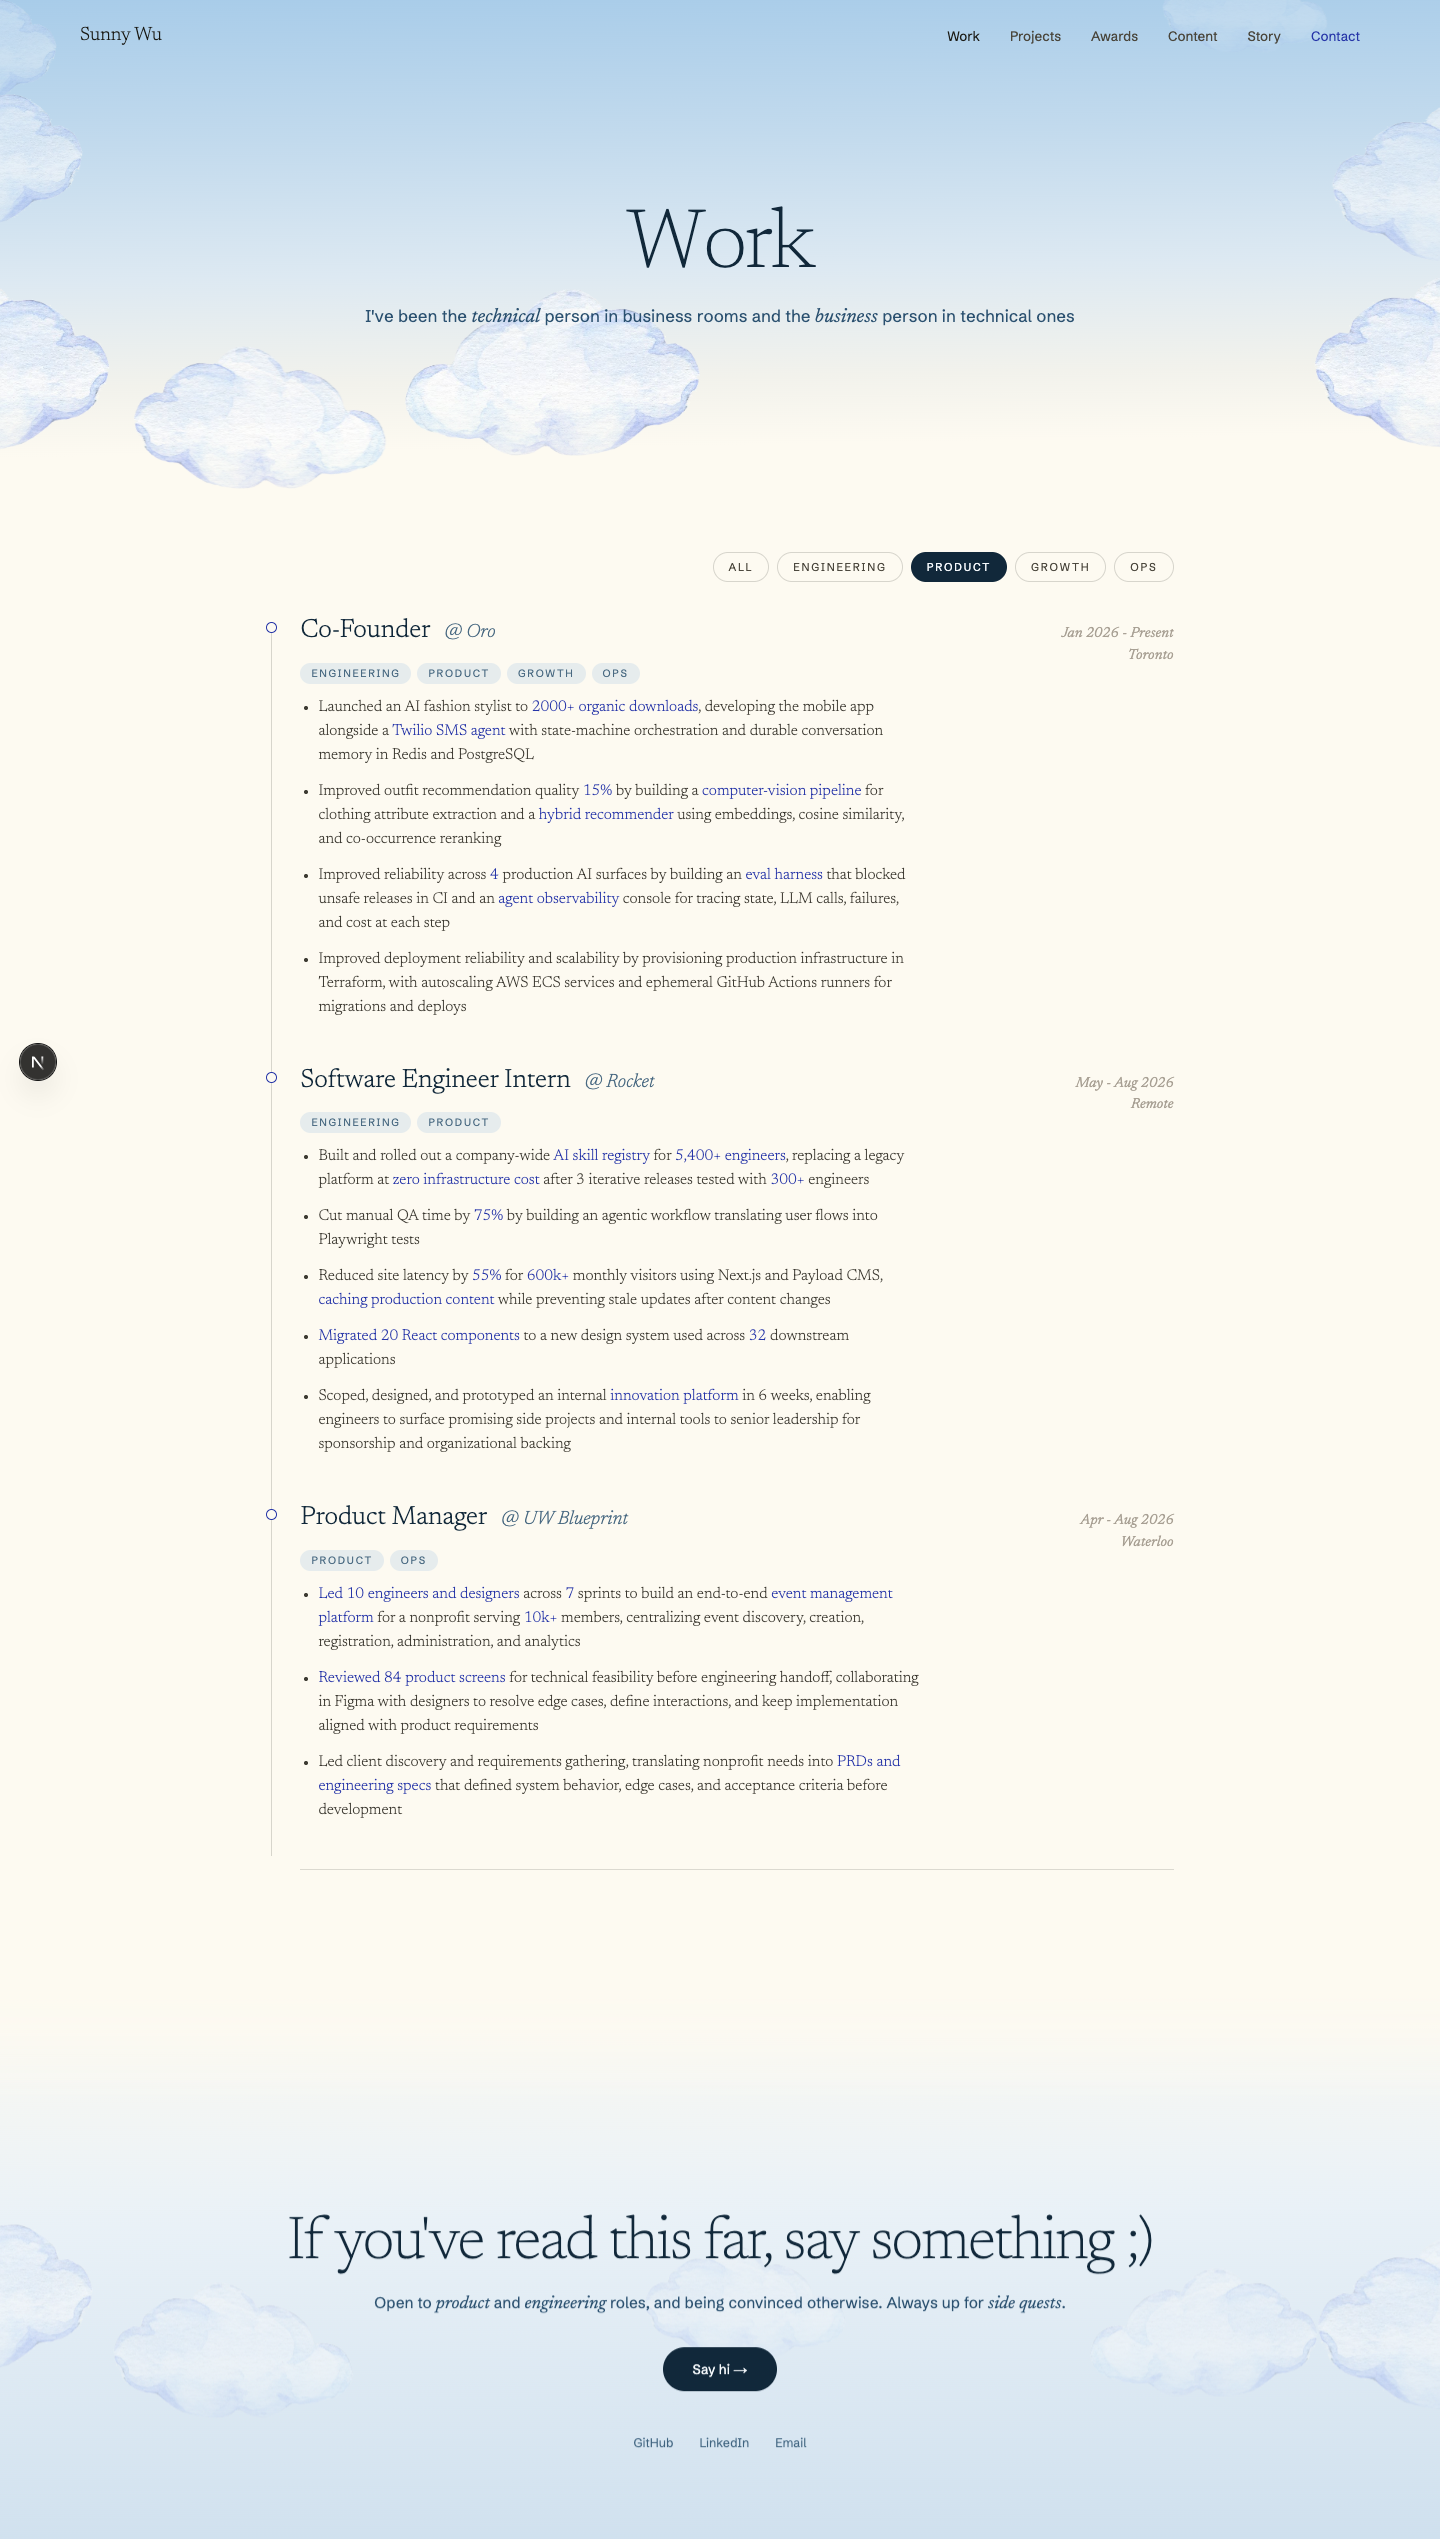
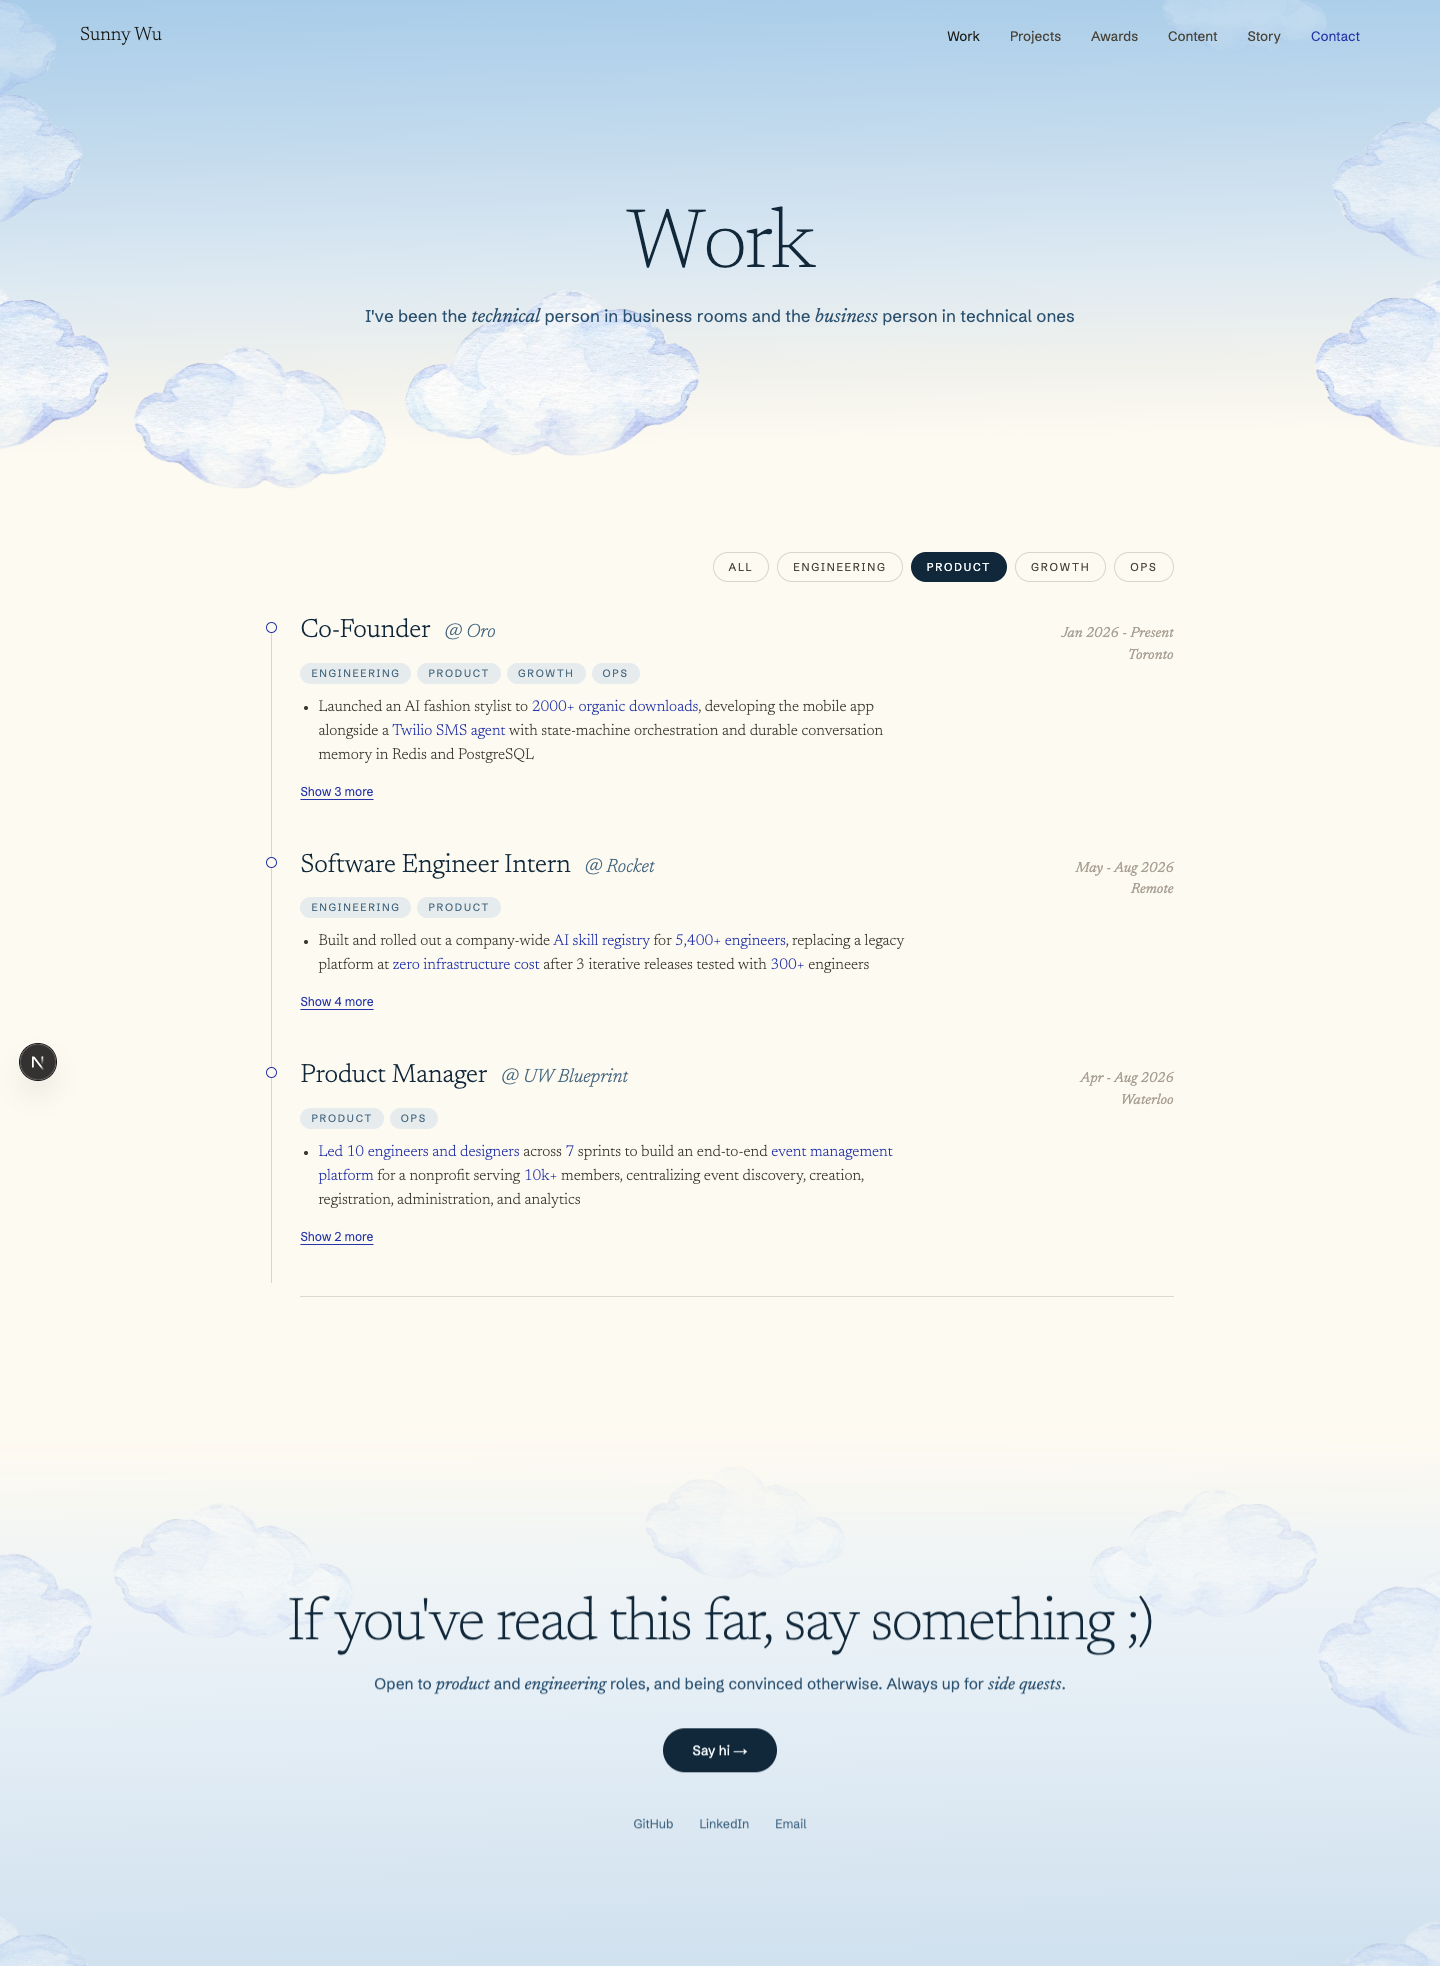
Add independent expand controls to experience bullets

diff --git a/frontend/components/WorkTimeline.tsx b/frontend/components/WorkTimeline.tsx
@@ -44,6 +44,7 @@ function FilterButton({
 }
 
 export default function WorkTimeline() {
+  const [expandedRoles, setExpandedRoles] = useState<Set<string>>(new Set());
   const [selected, setSelected] = useState<Set<Discipline>>(new Set());
 
   // Read once on mount rather than through useSearchParams, which would opt the
@@ -205,6 +206,7 @@ export default function WorkTimeline() {
               </div>
 
               <ul
+                id={`${roleSlug(role.company)}-bullets`}
                 style={{
                   margin: "12px 0 0",
                   paddingLeft: 18,
@@ -215,9 +217,10 @@ export default function WorkTimeline() {
                   maxWidth: 620,
                 }}
               >
-                {role.bullets.map((bullet) => (
+                {role.bullets.map((bullet, index) => (
                   <li
                     key={bullet}
+                    hidden={index > 0 && !expandedRoles.has(role.company)}
                     style={{
                       fontFamily: font.serif,
                       fontWeight: 300,
@@ -230,6 +233,34 @@ export default function WorkTimeline() {
                   </li>
                 ))}
               </ul>
+              {role.bullets.length > 1 && (
+                <button
+                  type="button"
+                  aria-expanded={expandedRoles.has(role.company)}
+                  aria-controls={`${roleSlug(role.company)}-bullets`}
+                  aria-label={`${expandedRoles.has(role.company) ? "Show less" : `Show ${role.bullets.length - 1} more`} about ${role.company}`}
+                  onClick={() => setExpandedRoles((previous) => {
+                    const next = new Set(previous);
+                    if (next.has(role.company)) next.delete(role.company);
+                    else next.add(role.company);
+                    return next;
+                  })}
+                  style={{
+                    marginTop: 10,
+                    padding: "6px 0",
+                    background: "transparent",
+                    border: 0,
+                    fontFamily: font.sans,
+                    fontSize: 12,
+                    color: color.blueInk,
+                    cursor: "pointer",
+                    textDecoration: "underline",
+                    textUnderlineOffset: 3,
+                  }}
+                >
+                  {expandedRoles.has(role.company) ? "Show less" : `Show ${role.bullets.length - 1} more`}
+                </button>
+              )}
             </div>
           ))}
         </div>
